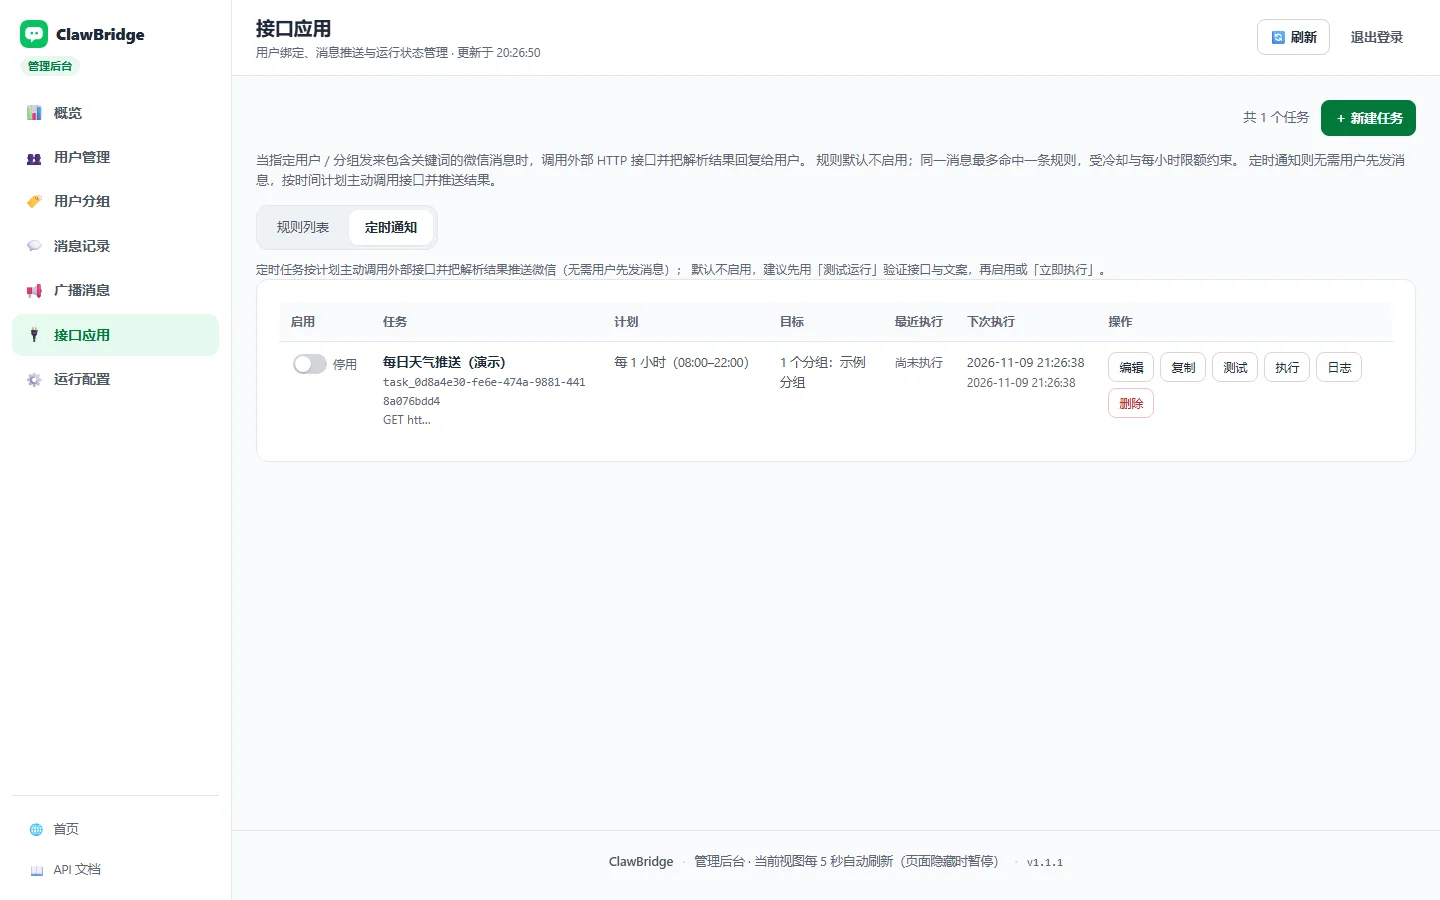
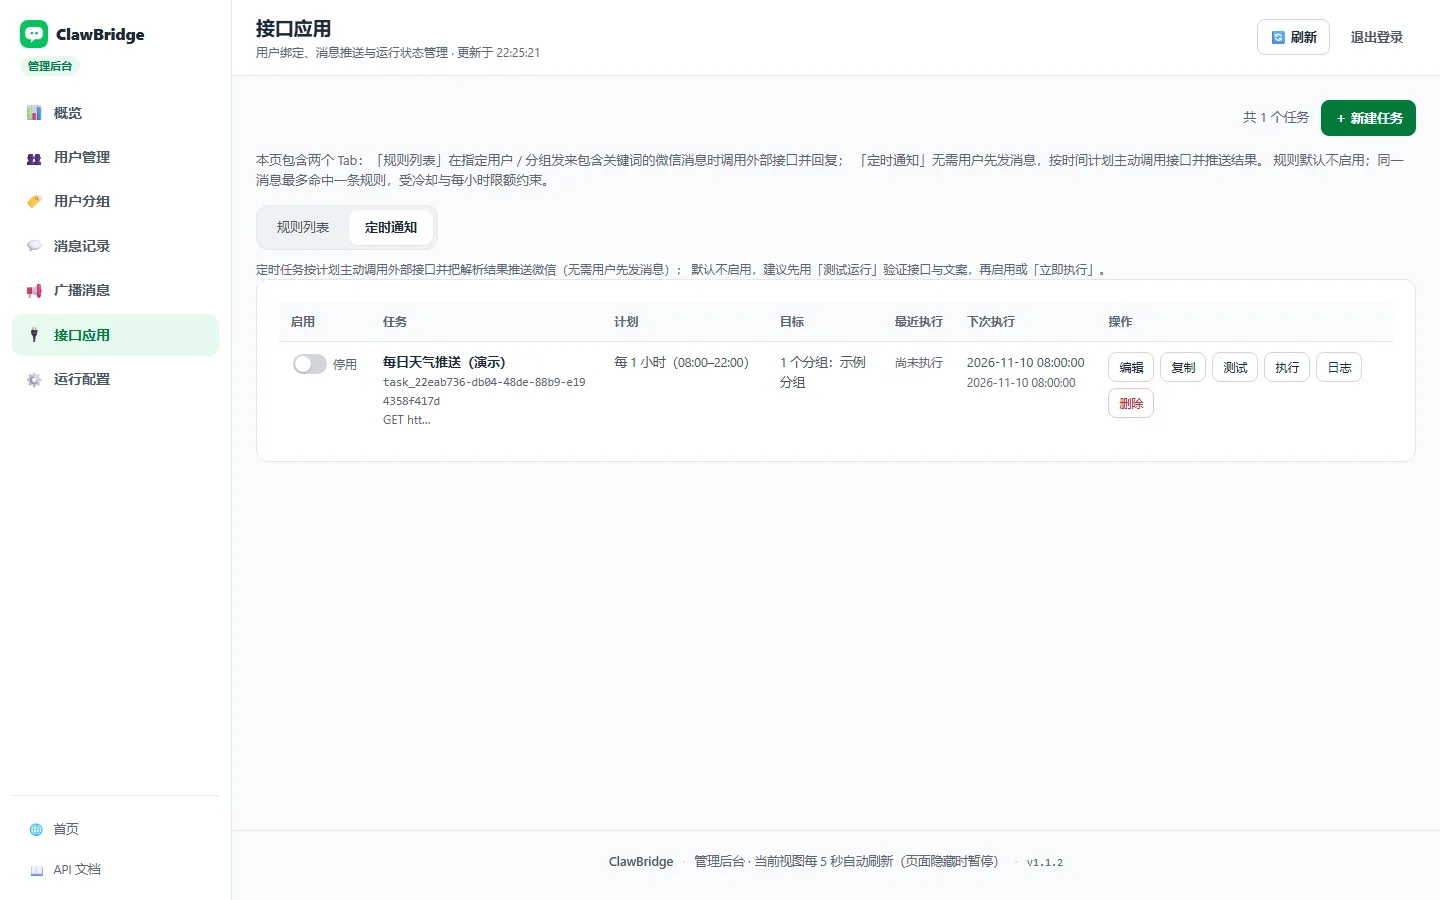
docs(ui): 明确定时通知是接口应用页面的 Tab，修正误导表述（1.1.2）

diff --git a/web/admin.html b/web/admin.html
@@ -290,9 +290,9 @@
               </div>
             </div>
             <p class="section-desc">
-              当指定用户 / 分组发来包含关键词的微信消息时，调用外部 HTTP 接口并把解析结果回复给用户。
+              本页包含两个 Tab：「规则列表」在指定用户 / 分组发来包含关键词的微信消息时调用外部接口并回复；
+              「定时通知」无需用户先发消息，按时间计划主动调用接口并推送结果。
               规则默认不启用；同一消息最多命中一条规则，受冷却与每小时限额约束。
-              定时通知则无需用户先发消息，按时间计划主动调用接口并推送结果。
             </p>
             <div id="rule-tabs" class="tab-bar" role="tablist" aria-label="接口应用视图">
               <button id="rule-tab-rules" class="tab-btn is-active" type="button" role="tab" aria-selected="true" aria-controls="rule-rules-panel" tabindex="0" data-rule-tab="rules">规则列表</button>

diff --git a/docs/API.md b/docs/API.md
@@ -140,7 +140,7 @@ GET /api/admin/overview
     "inboundLast24h": 8
   },
   "server": {
-    "version": "1.1.1",
+    "version": "1.1.2",
     "uptimeMs": 123456,
     "now": 1760000000000,
     "ilink": { "loginBaseUrl": "...", "defaultBaseUrl": "...", "botType": "3" },
@@ -261,7 +261,7 @@ GET /api/admin/messages?direction=inbound|outbound|all&status=&limit=50&offset=0
 ```
 GET /api/admin/config
 → 200 {
-  "version": "1.1.1",
+  "version": "1.1.2",
   "rateLimit": { "max": 7, "windowMs": 300000 },
   "binding": { "ttlMs": 600000, "maxRefreshes": 3, "maxActiveSessions": 50 },
   "pushApiEnabled": true,
@@ -284,7 +284,7 @@ GET /api/admin/config
 GET /api/admin/metrics          # 需要管理后台 Cookie 会话（401 未登录）
 → 200 {
   "serverTime": 1760000000000,
-  "version": "1.1.1",
+  "version": "1.1.2",
   "pid": 12345,
   "node": "v24.20.0",
   "uptimeMs": 123456,             // 进程运行时长
@@ -787,7 +787,7 @@ RuleView 关键字段：`scope{type,ids,names}`、`trigger{matchMode,keywords,re
 | `APP_RULE_MAX_QUEUE` | `200` | 内存队列上限 |
 
 > 定时通知（§9.1）有独立白名单 `SCHEDULER_ALLOWED_HOSTS`（空=继承本表 `APP_RULES_ALLOWED_HOSTS`），
-> 因此「接口应用」与「定时通知」可分别放行内网主机。
+> 因此「接口应用（规则）」与「接口应用 → 定时通知」两个运行配置分组可分别放行内网主机。
 
 **curl 示例**
 

diff --git a/docs/ARCHITECTURE.md b/docs/ARCHITECTURE.md
@@ -185,7 +185,7 @@ PRAGMA auto_vacuum = INCREMENTAL;   -- 仅全新库设置
   - 定时通知「按用户模式」：按**目标用户**解析凭据，相同凭据字段值合并一次外部请求。
 - **安全**：凭据值不进入任何 API 响应/日志/运行日志预览；用户删除时凭据级联删除。
 
-## 8. 接口应用规则引擎（`app-rules/`）
+## 8. 接口应用 · 规则列表 Tab 的规则引擎（`app-rules/`）
 
 - 命中条件：入站文本消息匹配规则（`contains`/`equals`/`regex`）+ scope（all/users/groups），
   多规则按 `priority` 升序只执行第一条；同一入站消息对同一规则最多执行一次（去重索引）。
@@ -205,7 +205,7 @@ PRAGMA auto_vacuum = INCREMENTAL;   -- 仅全新库设置
 - 执行队列：进程内 worker（`APP_RULES_WORKER_CONCURRENCY`）+ 有界队列（`APP_RULE_MAX_QUEUE`），
   失败只记录该次运行；运行日志写 `app_rule_logs`（参数/请求/响应预览均已脱敏，不含凭据值）。
 
-## 9. 定时通知（`scheduler/`）
+## 9. 接口应用 · 定时通知 Tab（`scheduler/`）
 
 - 计划：`interval`（每 N 分钟，60s–30d，可配每日生效时间段 `windowStart/windowEnd`，支持跨午夜）与
   `daily`（每天 HH:mm，时区 `SCHEDULER_TIMEZONE`）；服务重启对过期任务补跑一次。

diff --git a/docs/SCHEDULED_TASKS.md b/docs/SCHEDULED_TASKS.md
@@ -1,8 +1,9 @@
 # 定时通知（Scheduled Notifications）设计契约
 
+> 本契约是管理后台「接口应用」页面的**定时通知 Tab**（与「规则列表」Tab 并列），不是独立菜单/页面。
 > 需求：**定时访问外部接口 → 解析返回 → 把结果通过微信发送给全部/指定用户或分组**。
 > 例如：每天 8:00 查天气并推送给「VIP 客户」分组；每 30 分钟拉取一次订单状态并通知相关用户。
-> 与「接口应用」（收到消息触发）互补：定时任务无需用户先发消息，按时间计划主动执行。
+> 与「接口应用 → 规则列表」互补：定时任务无需用户先发消息，按时间计划主动执行。
 
 ## 0. 范围与原则
 
@@ -230,7 +231,7 @@ POST   /api/admin/template-preview                   → 200 { responseText, rep
 
 ## 6. 前端（管理后台）
 
-接口应用页新增第三个 Tab「定时通知」：
+接口应用页面的第二个 Tab「定时通知」（与「规则列表」Tab 并列）：
 
 1. 任务列表：启用开关、名称、计划摘要（每 N 分钟 / 每天 HH:mm（时区））、目标摘要（N 位用户 / N 个分组）、
    最近执行状态与时间、下次执行时间、操作（编辑 / 测试运行 / 立即执行 / 运行日志 / 删除）。

diff --git a/docs/ROTATE_APP_SECRET.md b/docs/ROTATE_APP_SECRET.md
@@ -140,7 +140,7 @@ curl -fsS http://127.0.0.1:10380/health
 2. 管理后台可登录（旧会话已失效，属预期）。
 3. 后台「用户管理」能看到用户列表；对任一用户「发消息」入队成功。
 4. 「接口应用 → 测试运行」可解密该规则的 Header 并真实调用外部接口（响应正常）。
-5. 「定时通知 → 测试运行」同样正常；日志无「无法解密/非法 JSON」类告警。
+5. 「接口应用 → 定时通知 → 测试运行」同样正常；日志无「无法解密/非法 JSON」类告警。
 6. `docker compose logs app | grep -iE '忽略无法解密|忽略非法 JSON'` 无新增告警。
 7. 观察 5-10 分钟：推送队列正常消费，入站监控无异常。
 

diff --git a/CHANGELOG.md b/CHANGELOG.md
@@ -1,3 +1,12 @@
+## [1.1.2] - 2026-11-09
+
+### 文档 / 文案修正
+
+- 明确「定时通知」是管理后台「接口应用」页面的**第二个 Tab**（与「规则列表」并列），不是独立菜单/页面：
+  - 修正 docs/SCHEDULED_TASKS.md 中「第三个 Tab」等误导表述；
+  - docs/API_RULES.md、docs/ARCHITECTURE.md、docs/API.md、README、后台页面说明统一改为「接口应用 → 规则列表 / 接口应用 → 定时通知」；
+  - README 截图说明、DOC 索引与相关交叉引用同步。
+- 无 API/数据库 schema 变更（schema 仍 v1）。
 ## [1.1.1] - 2026-11-09
 
 ### 修复

diff --git a/docs/UPGRADE.md b/docs/UPGRADE.md
@@ -1,6 +1,6 @@
 # 部署、升级与回滚（Upgrade / Rollback）
 
-> 适用版本：**ClawBridge 1.1.1（数据库 schema v1，全新数据基线）**。
+> 适用版本：**ClawBridge 1.1.2（数据库 schema v1，全新数据基线）**。
 > 本文说明全新部署、从旧版本数据卷切换到 1.0.0、备份与回滚的实操步骤；
 > 配置字段见 [`docs/SETTINGS.md`](SETTINGS.md)，发布流程见 [`docs/RELEASE.md`](RELEASE.md)，
 > APP_SECRET 轮换见 [`docs/ROTATE_APP_SECRET.md`](ROTATE_APP_SECRET.md)。

diff --git a/docs/RELEASE.md b/docs/RELEASE.md
@@ -1,7 +1,7 @@
 # 发布流程（Release Process）
 
 > 适用：ClawBridge 单仓库自托管发布（Docker 镜像发布到 GHCR + 源码标签）。
-> 当前版本：**1.1.1**；数据库 schema：**v1**。
+> 当前版本：**1.1.2**；数据库 schema：**v1**。
 > 升级/回滚的数据操作见 [`docs/UPGRADE.md`](UPGRADE.md)；版本变更见 [CHANGELOG.md](../CHANGELOG.md)。
 
 ## 0. 版本与发布物
